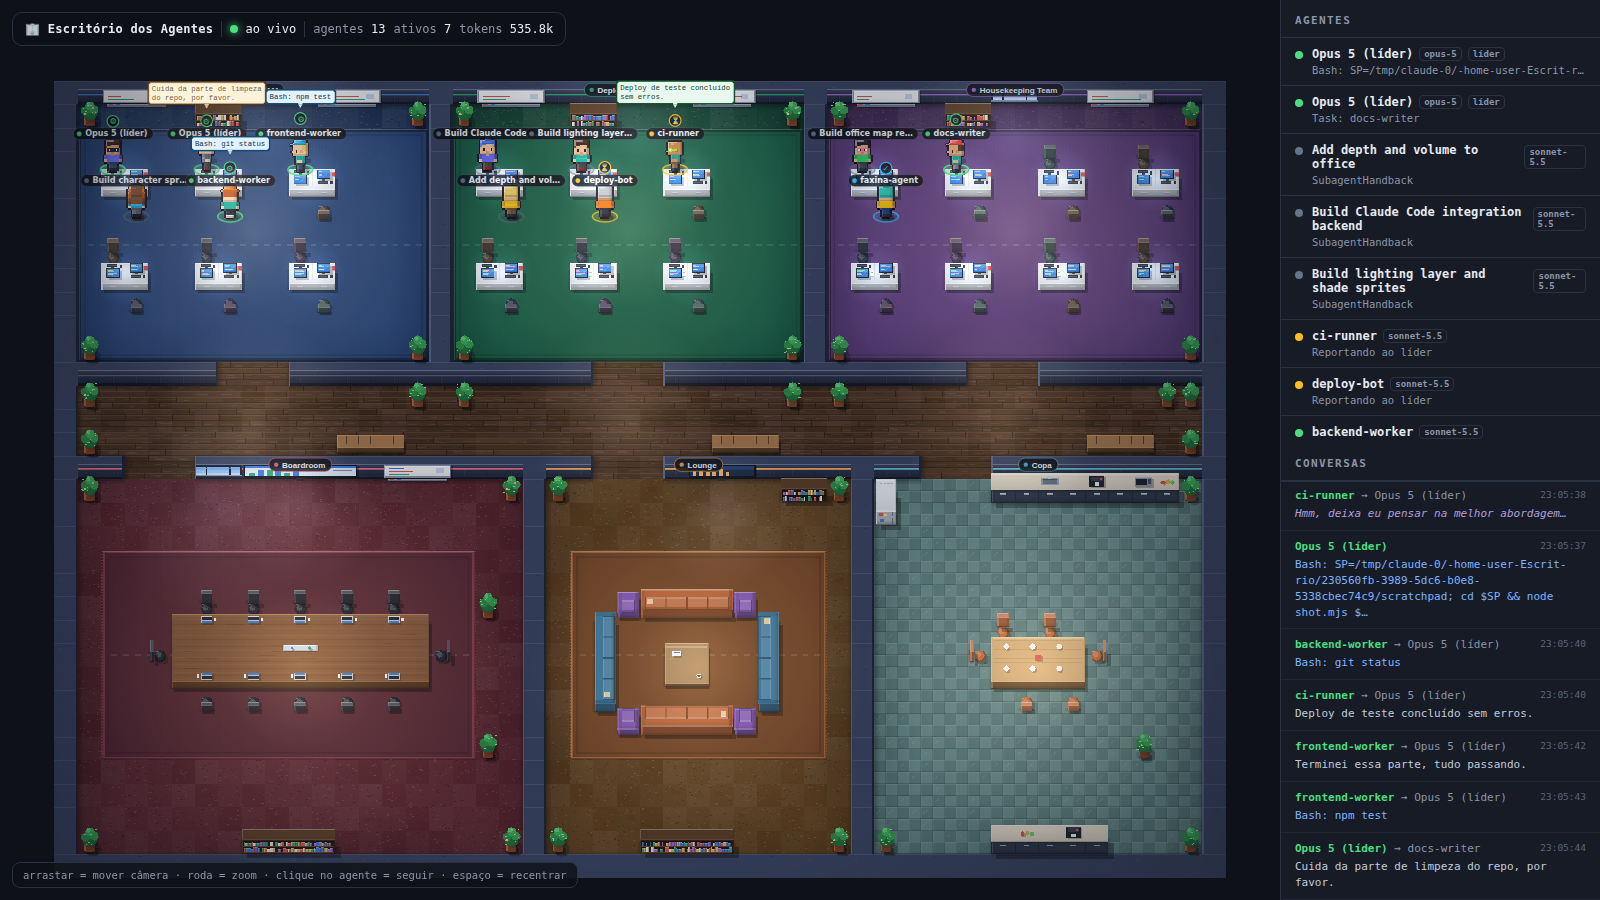
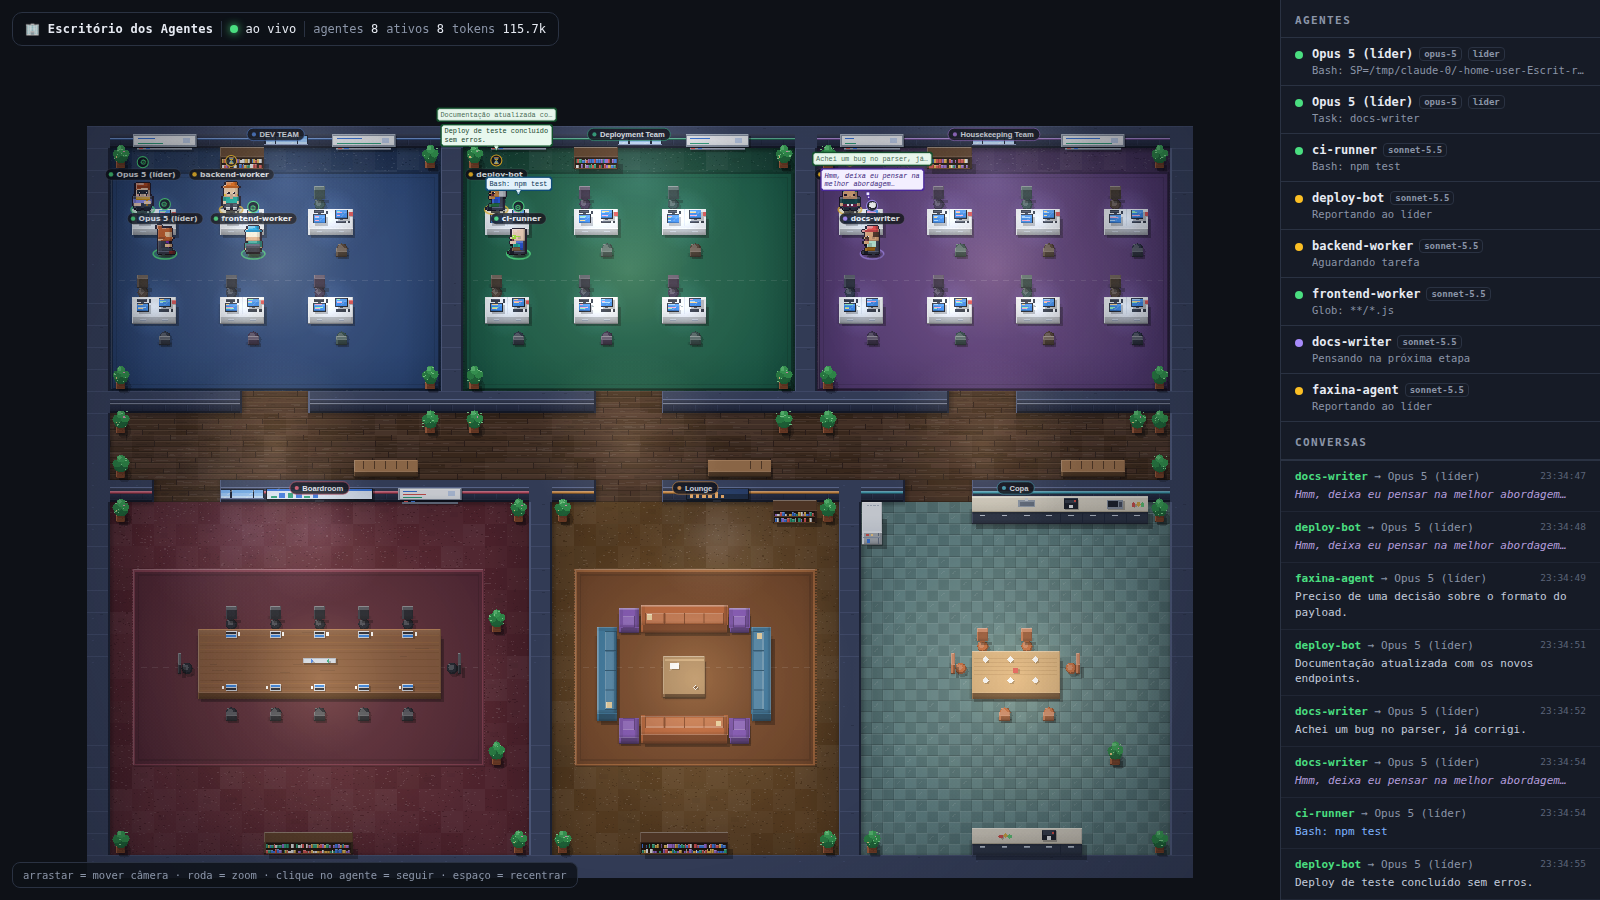
fix: garante contraste interno entre pele, cabelo e camisa
Achado renderizando o app: alguns seeds sorteavam os tres em tons quentes
quase identicos (pele #e0a878 + cabelo dourado + camisa amarela). Isolado
no spritesheet da para distinguir, mas no escritorio o personagem perdia a
silhueta interna e virava um borrao de uma cor so.

ensureContrast afasta a luminancia das regioes que se encostam, preservando
o matiz, e roda depois de todos os sorteios, entao nao altera a sequencia do
PRNG (mesmo seed continua dando o mesmo personagem).

As restricoes sao resolvidas em conjunto, nao aos pares: afastar a camisa do
cabelo isoladamente a jogava de volta em cima da pele. Primeira tentativa
caiu nisso e deixou a camisa a 5 de luminancia da pele.

Medido em 300 seeds: 0 abaixo do limiar (pior caso 52.0), com variedade
preservada - 77 cores de cabelo, 175 de camisa, 13 de pele.

Claude-Session: https://claude.ai/code/session_01EqAg2mDCpHfZfWMAvZ3JQt

diff --git a/public/js/sprites.js b/public/js/sprites.js
@@ -109,6 +109,57 @@ function pick(rand, list) {
   return list[Math.floor(rand() * list.length) % list.length];
 }
 
+// ---------------------------------------------------------------------------
+// Garantia de contraste interno (determinística, NÃO consome PRNG)
+// ---------------------------------------------------------------------------
+// Alguns seeds sorteiam pele, cabelo e camisa em tons quentes quase idênticos
+// (ex.: pele #e0a878 + cabelo dourado + camisa amarela). No sheet isolado dá
+// para distinguir, mas no escritório, a 1x de zoom, o personagem perde toda a
+// silhueta interna e vira um borrão de uma cor só. Aqui afastamos a luminância
+// das regiões que se encostam, preservando o matiz — o personagem continua
+// "o mesmo", só legível.
+const LUMA_MIN = 52;            // separação mínima de luminância (escala 0..255)
+
+function luma(hex) {
+  const n = parseInt(hex.slice(1), 16);
+  return 0.2126 * ((n >> 16) & 255) + 0.7152 * ((n >> 8) & 255) + 0.0722 * (n & 255);
+}
+
+/** Afasta `col` de todas as `refs` na luminância, clareando (dir=1) ou escurecendo. */
+function pushAway(col, refs, dir) {
+  let out = col, guard = 0;
+  const minDist = (c) => Math.min(...refs.map((r) => Math.abs(luma(c) - luma(r))));
+  while (minDist(out) < LUMA_MIN && guard++ < 14) {
+    out = dir > 0 ? lighten(out, 0.14) : darken(out, 0.14);
+  }
+  return { col: out, dist: minDist(out) };
+}
+
+/** Escolhe o lado (clarear ou escurecer) que melhor separa `col` de todas as refs. */
+function separate(col, refs) {
+  const up = pushAway(col, refs, 1);
+  const down = pushAway(col, refs, -1);
+  // Empate resolvido pelo lado que menos mexeu na cor original.
+  if (up.dist >= LUMA_MIN && down.dist >= LUMA_MIN) {
+    return Math.abs(luma(up.col) - luma(col)) <= Math.abs(luma(down.col) - luma(col)) ? up.col : down.col;
+  }
+  return up.dist >= down.dist ? up.col : down.col;
+}
+
+/**
+ * Resolve colisões pele/cabelo/camisa. As três regiões se tocam (rosto/nuca e
+ * pescoço/braços), então precisam se separar MUTUAMENTE: tratar os pares em
+ * sequência não funciona, porque afastar a camisa do cabelo pode jogá-la de
+ * volta em cima da pele. Por isso a camisa é separada das duas de uma vez.
+ */
+function ensureContrast(skin, hair, shirt) {
+  if (Math.abs(luma(hair) - luma(skin)) < LUMA_MIN) hair = separate(hair, [skin]);
+  if (Math.min(Math.abs(luma(shirt) - luma(skin)), Math.abs(luma(shirt) - luma(hair))) < LUMA_MIN) {
+    shirt = separate(shirt, [skin, hair]);
+  }
+  return { skin, hair, shirt };
+}
+
 // Sorteia a aparência completa a partir do seed.
 // ATENÇÃO: a ordem das chamadas ao PRNG é o que garante "mesmo seed = mesmo personagem".
 // Sorteios novos entram SEMPRE no final da sequência.
@@ -159,6 +210,10 @@ function makeLook(seed) {
   const earring = eEar < 0.16 && accessory !== 'headphones';
   const eyeStyle = eEye < 0.4 ? 1 : 0;
   const neckColor = pick(() => eTieI, TIES);
+
+  // Último passo: garante que pele, cabelo e camisa não fiquem no mesmo tom.
+  // Vem depois de todos os sorteios, então não altera a sequência do PRNG.
+  ({ skin, hair, shirt } = ensureContrast(skin, hair, shirt));
 
   return {
     skin, skinShade: darken(skin, 0.18), blush: mix(skin, '#ff7a90', 0.35),
